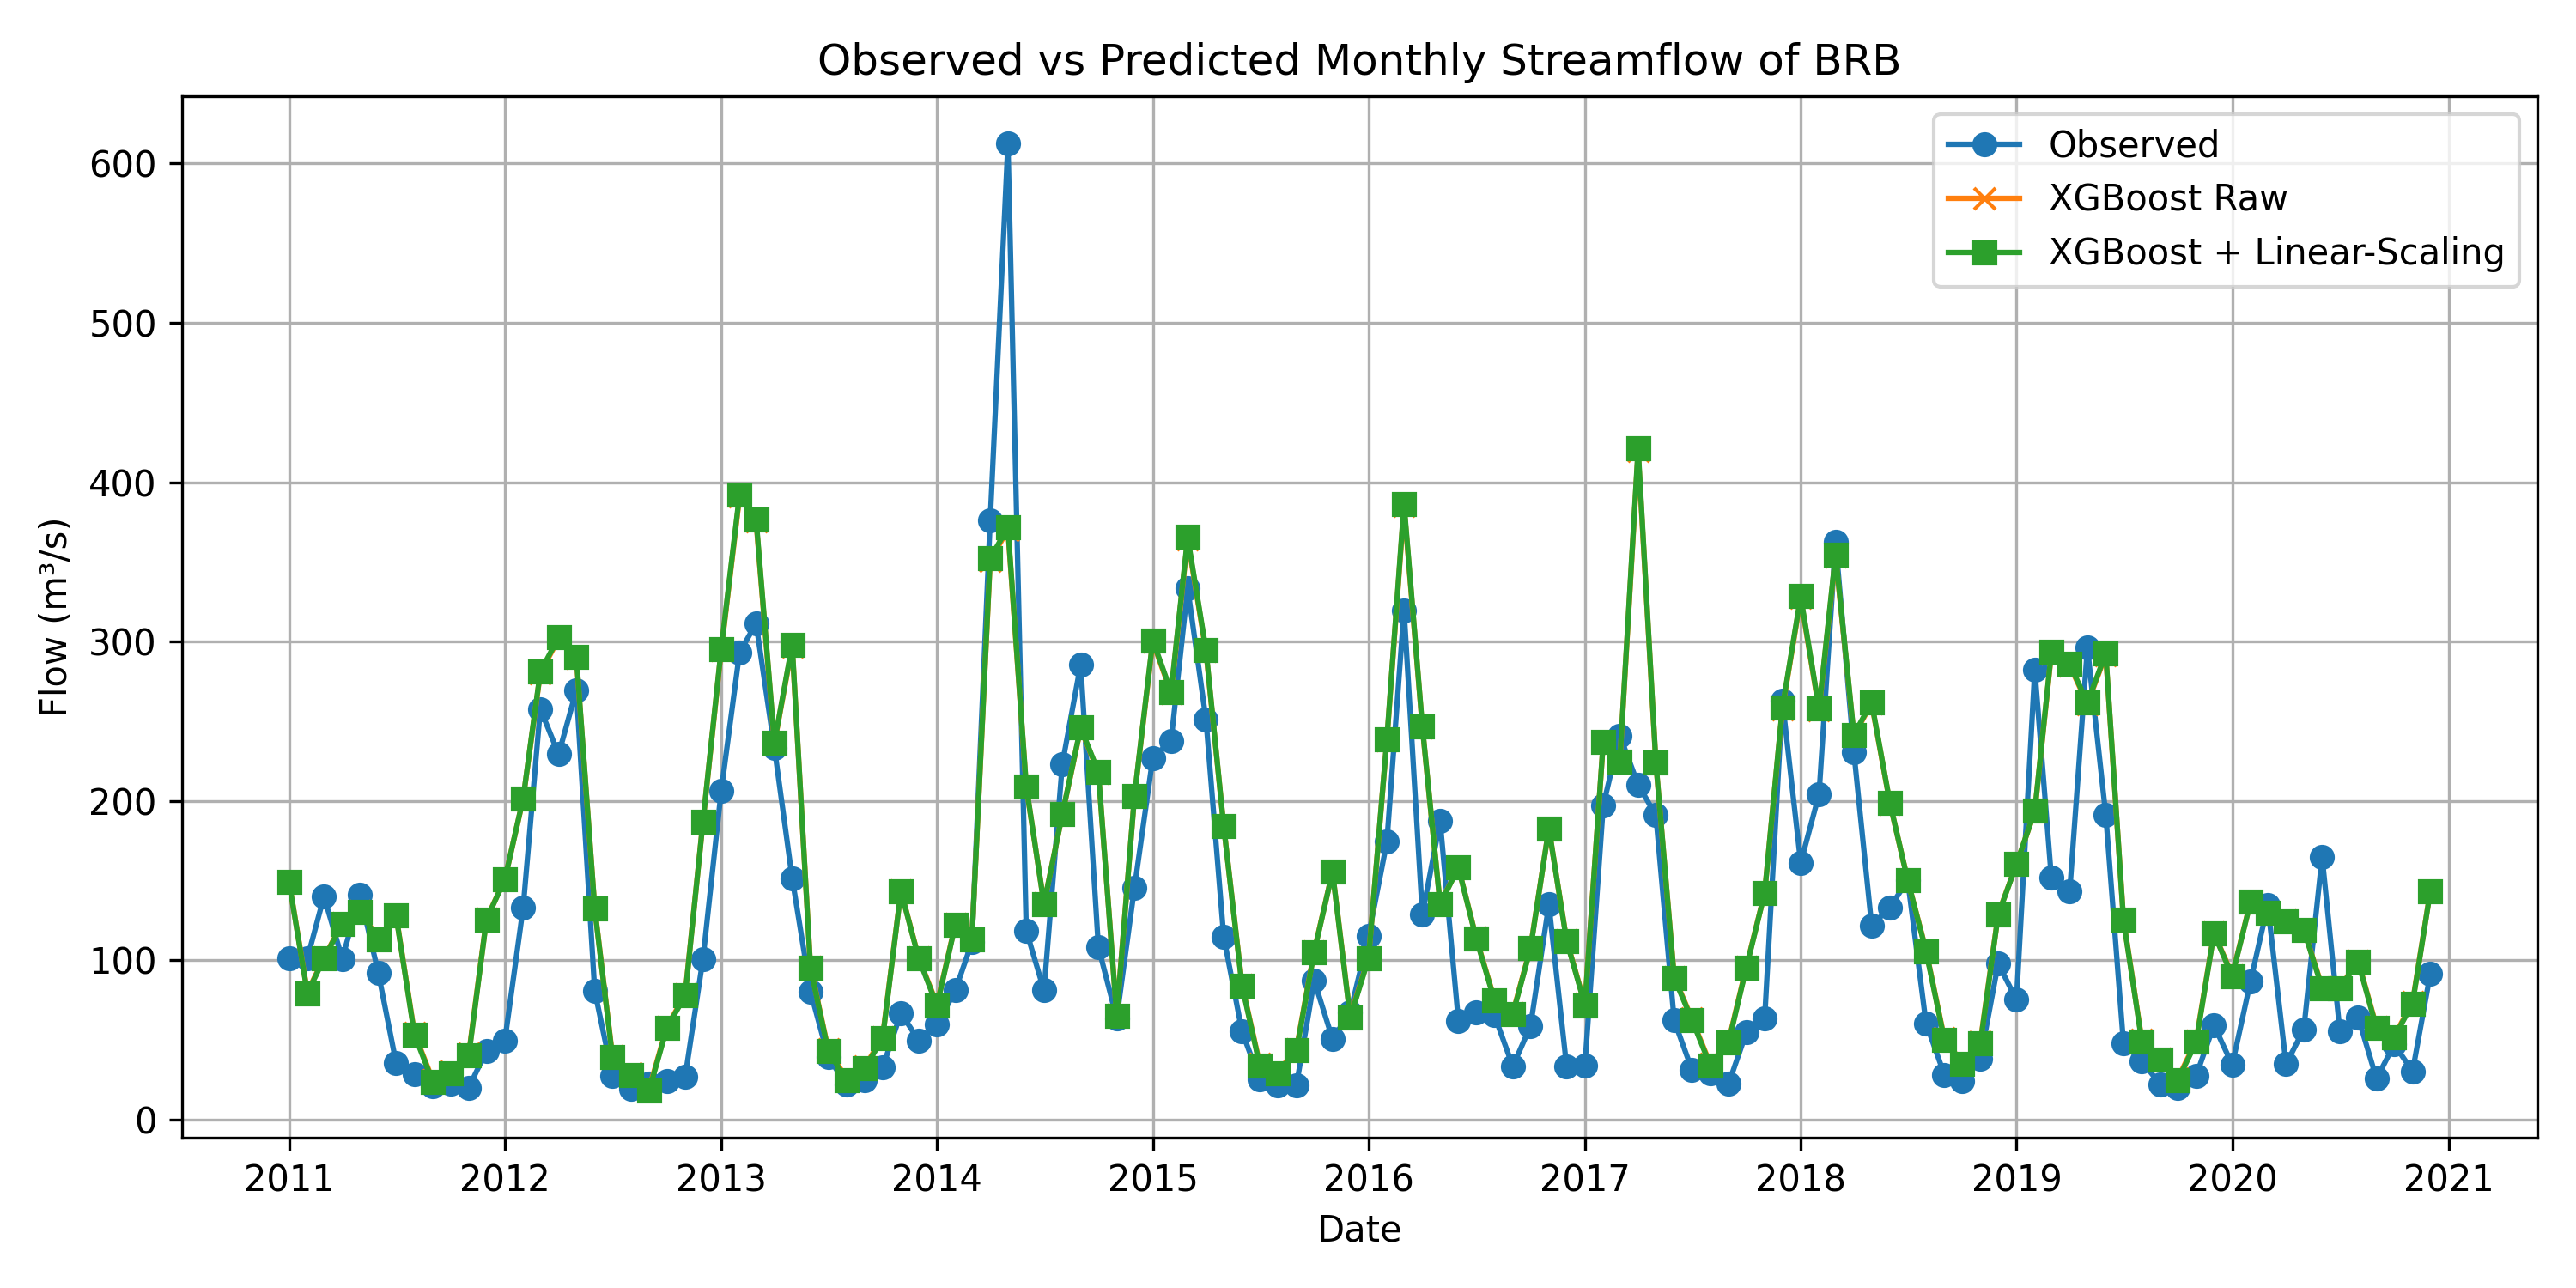
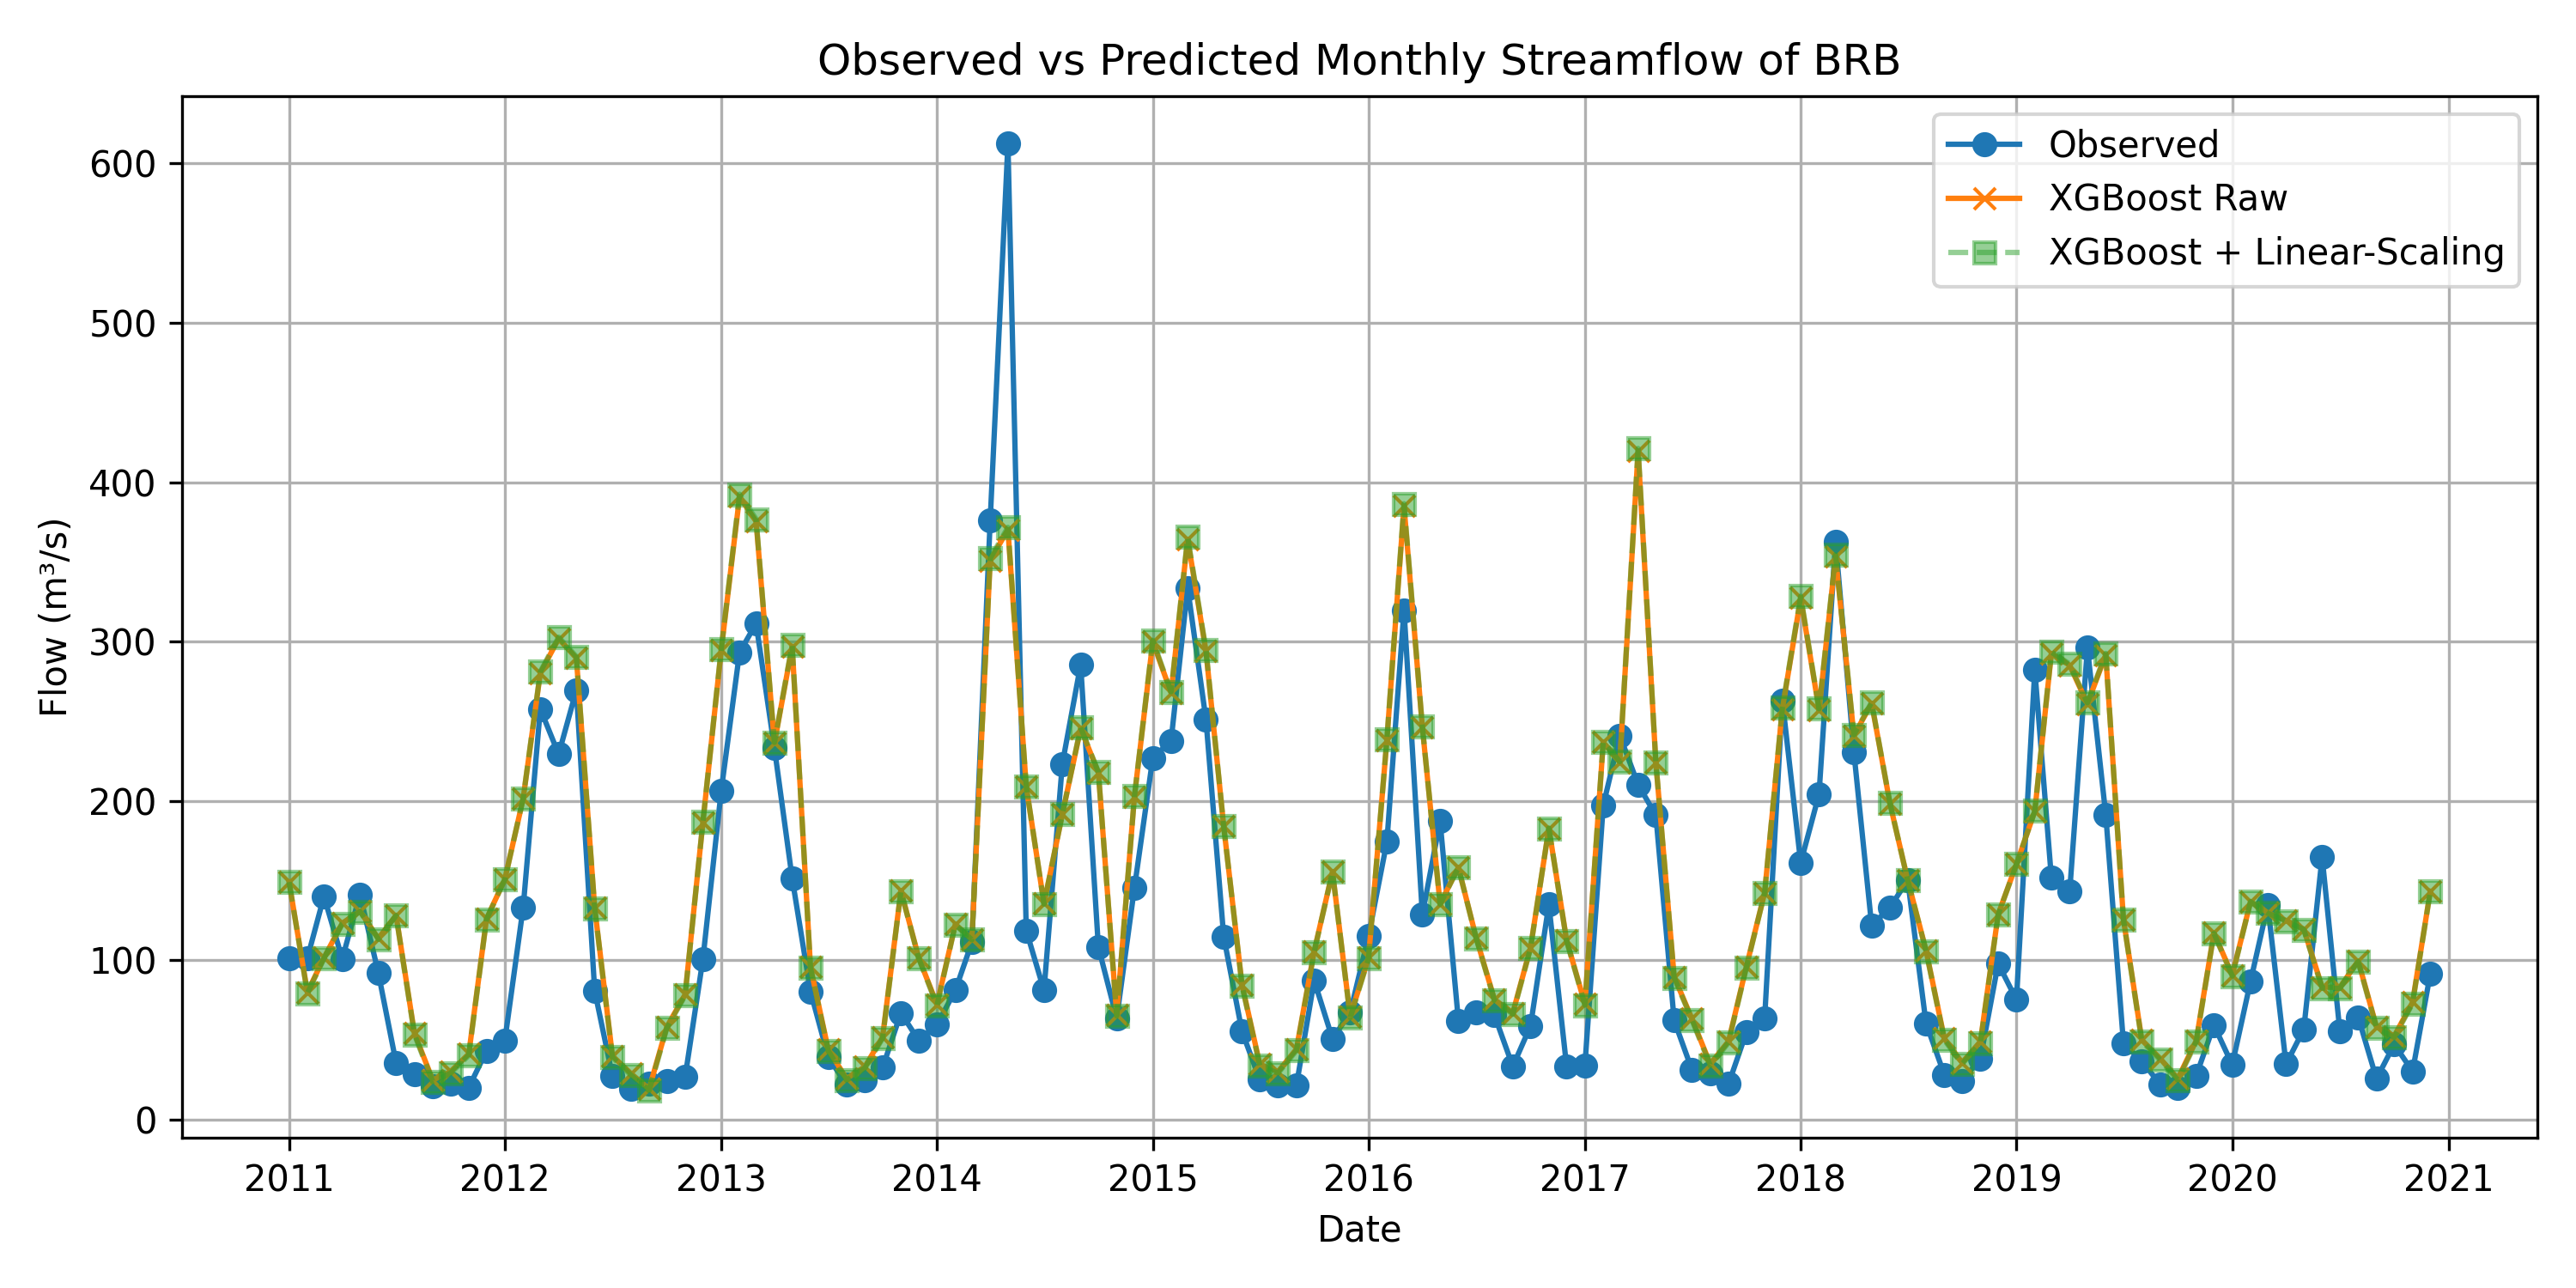
Update & Abstract shrik

diff --git a/src/xgboost_linear_scaling_correction.py b/src/xgboost_linear_scaling_correction.py
@@ -247,7 +247,7 @@ def run_xgboost_with_linear_scaling(df, target_col="Q_proticaj", max_train_year=
     plt.figure(figsize=(10,5))
     plt.plot(y_test.index, y_test.values, label="Observed", marker='o')
     plt.plot(y_test.index, y_pred, label="XGBoost Raw", marker='x')
-    plt.plot(y_test.index, y_pred_corrected, label="XGBoost + Linear-Scaling", marker='s')
+    plt.plot(y_test.index, y_pred_corrected, label="XGBoost + Linear-Scaling", marker='s', linestyle='--', alpha=0.5)
     plt.title("Observed vs Predicted Monthly Streamflow of BRB")
     plt.xlabel("Date")
     plt.ylabel("Flow (m³/s)")